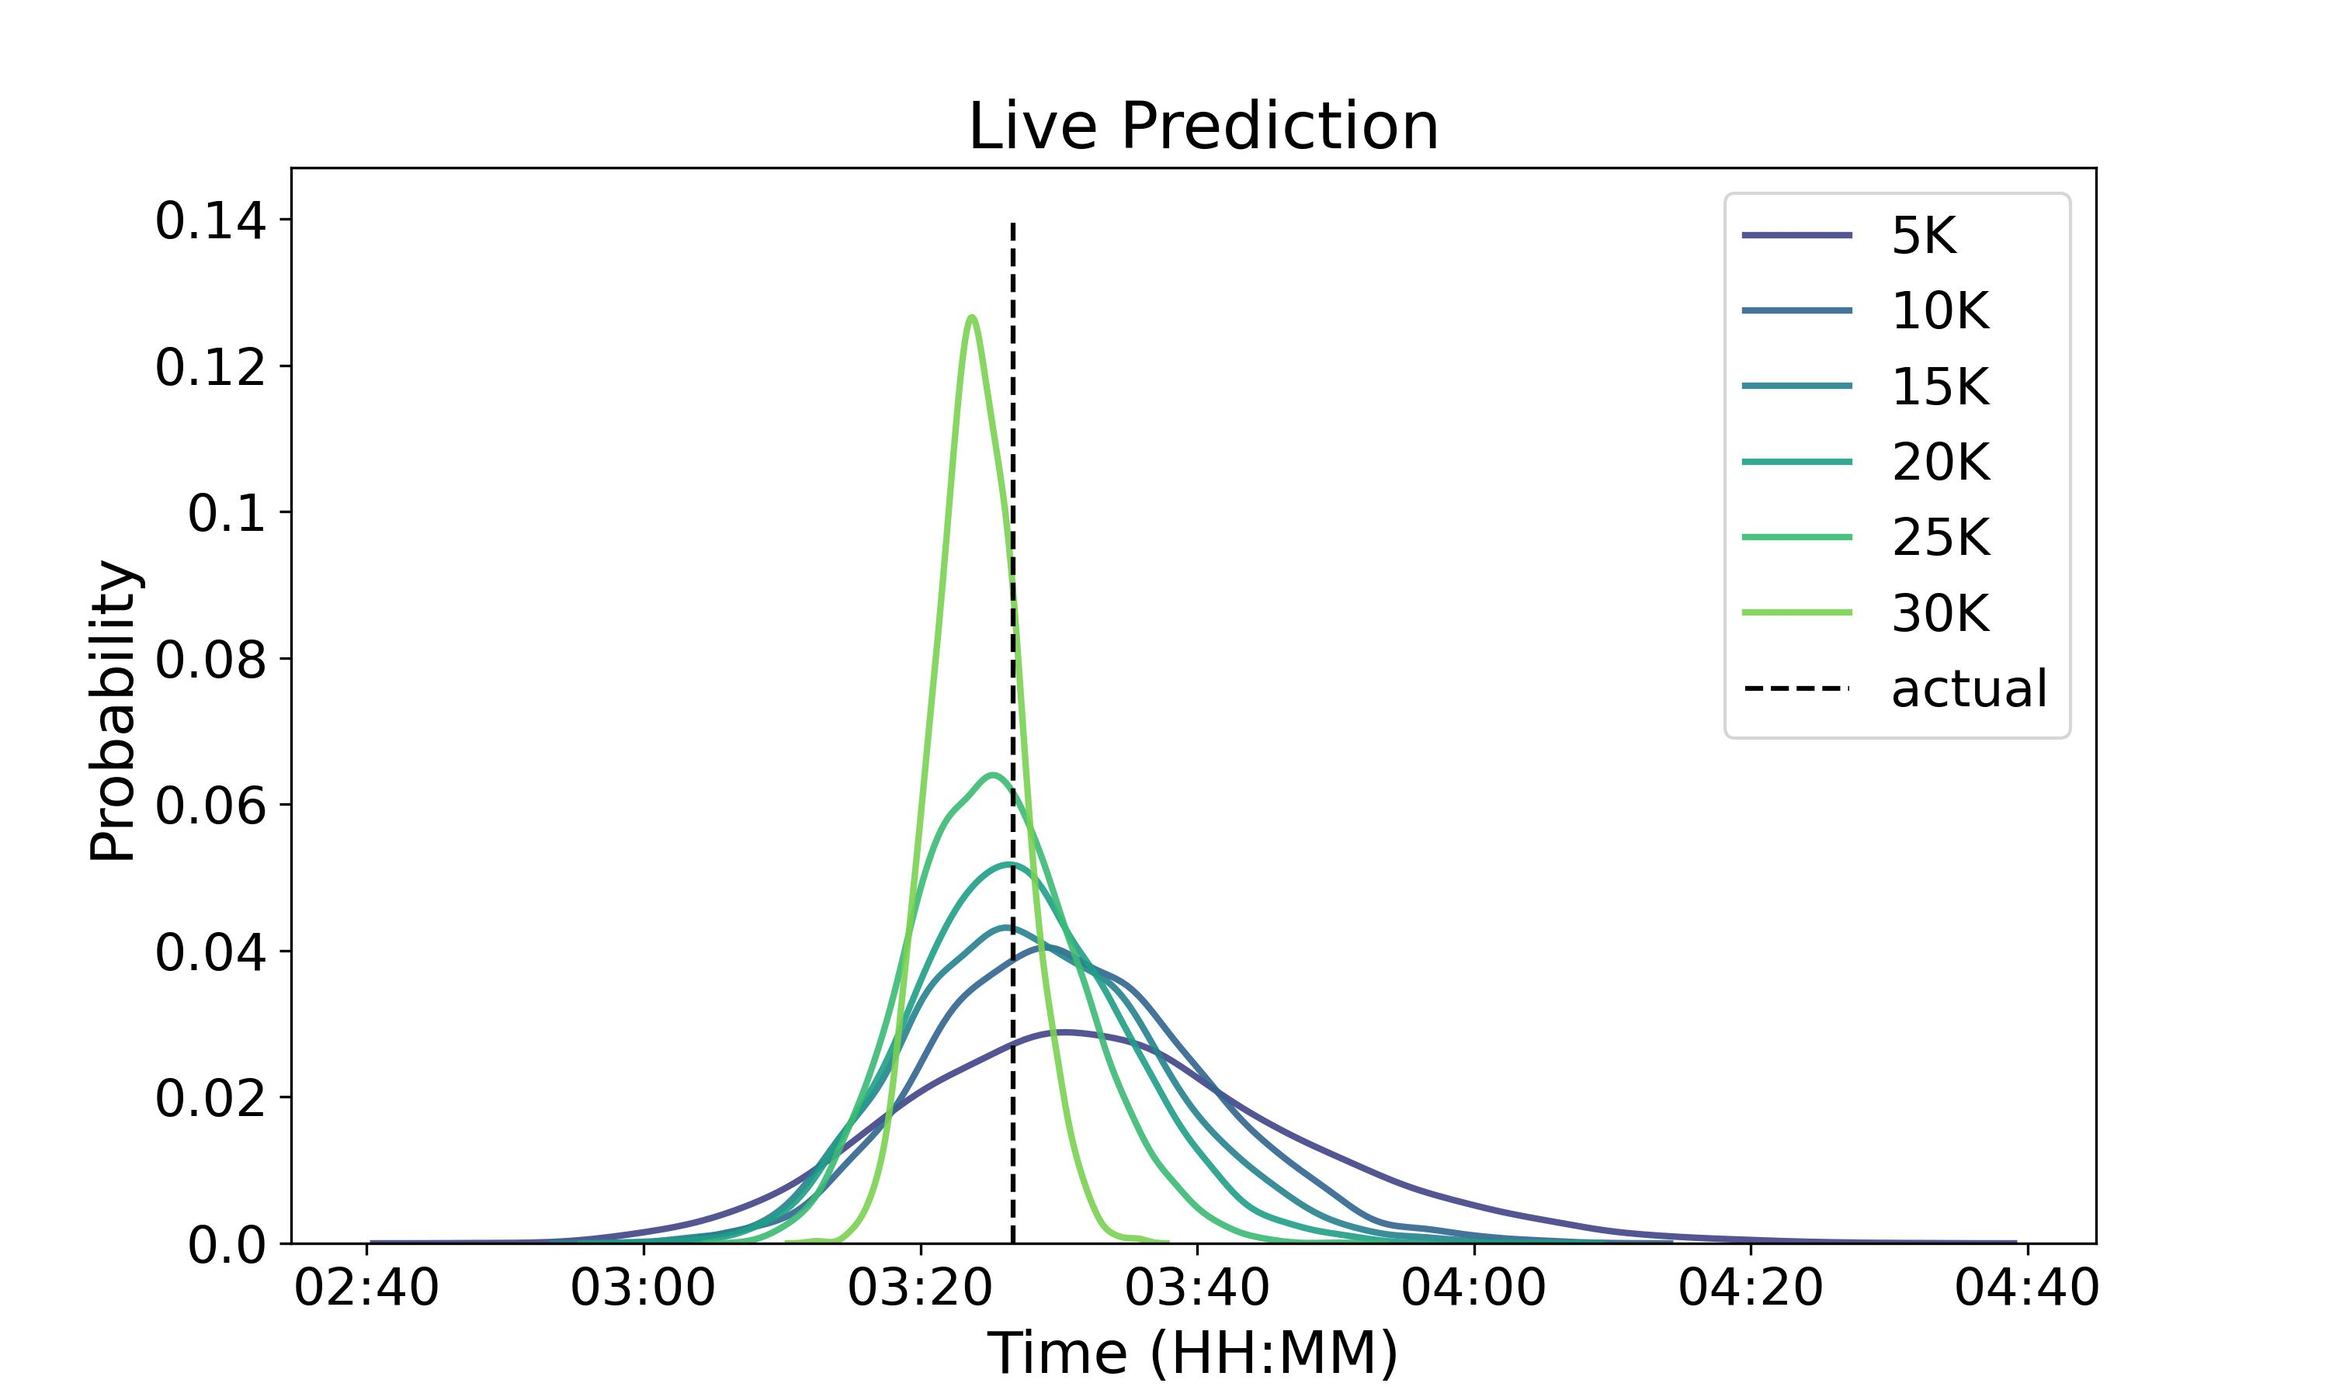
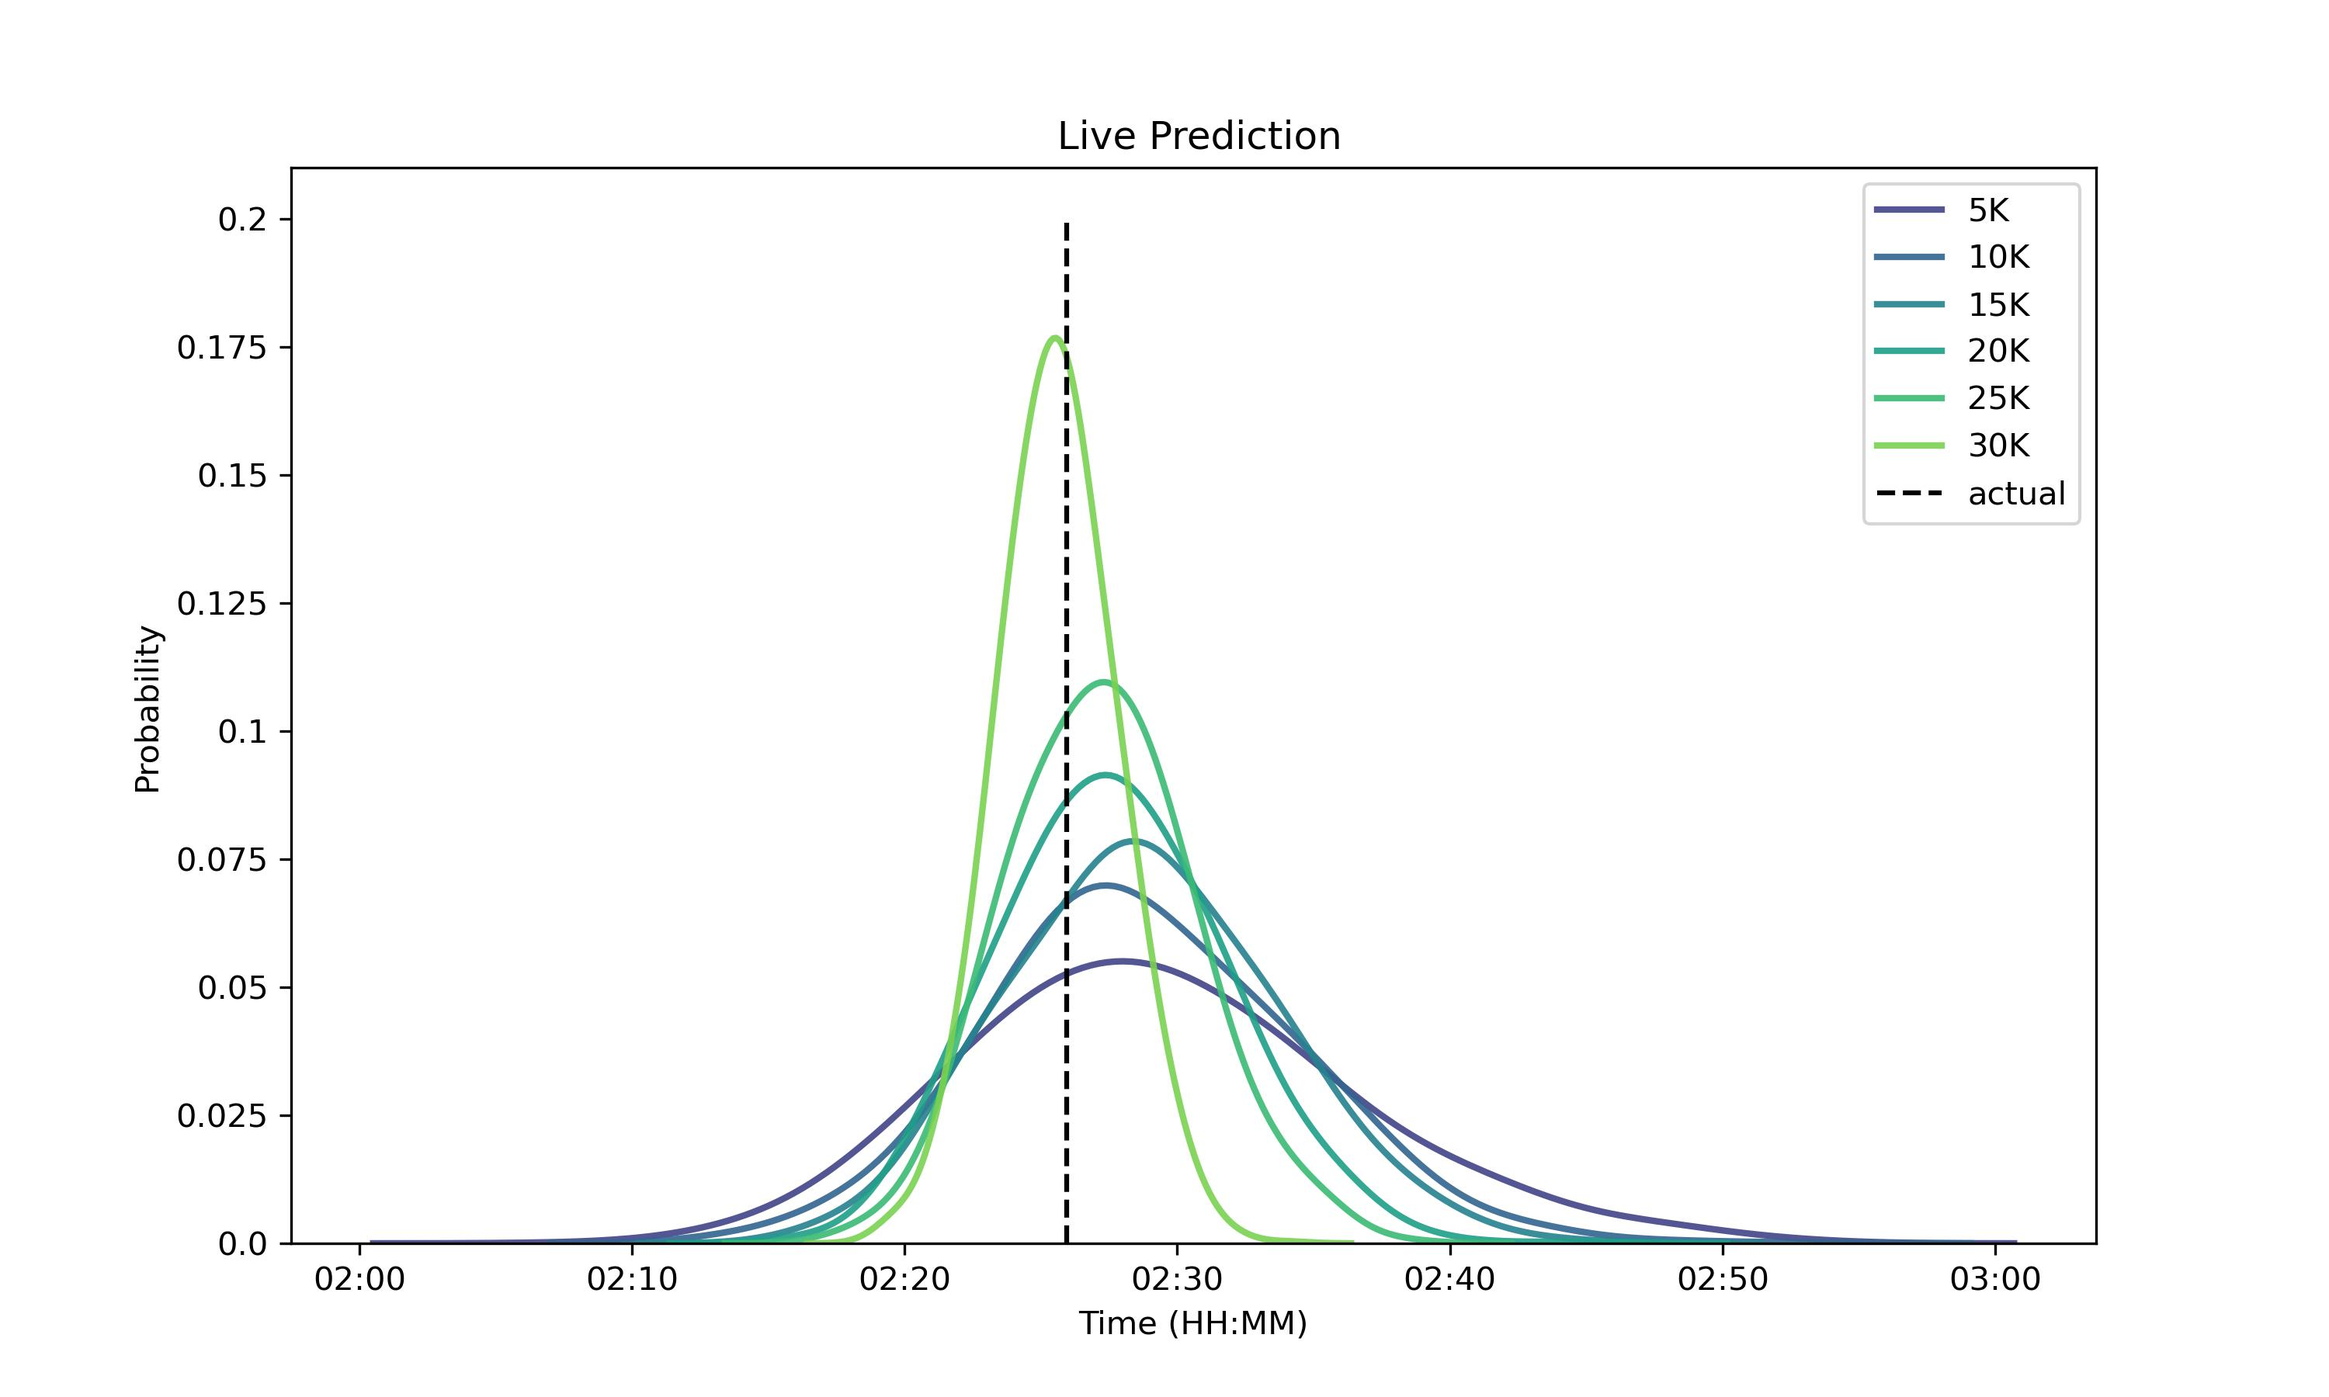
Update app

diff --git a/app.py b/app.py
@@ -12,17 +12,20 @@ nucr = pd.read_csv(nucr_filename)
 names = nucr["Name"]
 marks = ["5K", "10K", "15K", "20K", "25K", "30K", "35K", "40K"]
 race_splits = RaceSplits()
-ui.page_opts(title="Quantifying Uncertainty in Live Marathon Finish Time Predictions", fillable=True)
+
+card_style = "color:white; background:#2A2A2A !important;"
+ui.page_opts(title="Marathon Finish Time Predictor", fillable=True)
 
 with ui.sidebar(id="sidebar", open="open"):
     ui.input_radio_buttons("radio", "Input Type",  {"0": "Total Time", "1": "Last Split"}, inline=True)  
     ui.input_radio_buttons("radio2", "Marathon Race",  {"0": "Boston", "1": "New York", "2": "Chicago"}, inline=True)  
     ui.input_select("select", label="Choose a distance", choices=marks, selected="5K")
-    ui.input_text("runner_split1", value="", label="Enter time here:", placeholder="MM:SS")
+    ui.input_text("runner_split1", value="", label="Enter time here:", placeholder="MM:SS or HH:MM:SS")
     ui.input_action_button("bttn", "Add Time", class_="btn-success")
     ui.input_action_button("reset", "Reset", class_="btn-success")
 
     with ui.card(full_screen=True):
+        ui.card_header("Last Action", style=card_style)
         @render.text
         @reactive.event(input.bttn, input.reset)       
         def textSidebar():
@@ -38,24 +41,12 @@ with ui.sidebar(id="sidebar", open="open"):
 with ui.nav_panel("My Plot"):
     with ui.layout_columns(fill=False):
         with ui.card(full_screen=True):
-            "View your finish time estimates in real time! Sequentially input your race splits (formatted MM:SS or HH:MM:SS) in the text box below, click go, and view your live prediction at that stage of the race. Input your times in 5km increments [5K, 10K, ..., 40K].  NOTE: if the app errors, refresh the page and try again."
-
-    with ui.layout_columns(fill=False):
-        with ui.card(full_screen=True):
-            ui.card_header("Inputted Times")
-            @render.data_frame
-            @reactive.event(input.bttn, input.reset)
-            def tableTimes():
-                df = race_splits.stored_times_table()
-                print('tbl')
-                print(df)
-                return df
+            "View your finish time estimates in real time! Sequentially input your race splits in the text box below, click go, and view your live prediction at that stage of the race. Input your times in 5km increments [5K, 10K, ..., 40K].  NOTE: if the app errors, refresh the page and try again."
 
     with ui.layout_columns(col_widths=[6, 6, 12]):
 
         @reactive.calc
         def getInfoInput():
-            print(race_splits.get_stored_paces())
             if input.runner_split1():
                 race_splits.city = {"0": "bos", "1": "nyc", "2": "chi"}[input.radio2()]
                 fig, table = get_from_info(race_splits, show=marks)
@@ -64,21 +55,21 @@ with ui.nav_panel("My Plot"):
                 return None, None
                                      
         with ui.card(full_screen=True):
-            ui.card_header("Live Prediction: Table")
+            ui.card_header("Live Prediction: Table", style=card_style)
 
             with ui.popover(title="Filter credible intervals", placement="top"):        
                 fa.icon_svg("gear")
-                ui.input_checkbox_group("intervals1", "Credible Intervals", choices=["range_50", "range_80", "range_95"], 
-                                        selected=["range_50", "range_95"], inline=True)
+                ui.input_checkbox_group("intervals1", "Credible Intervals", choices=["50% CI", "80% CI", "95% CI"], 
+                                        selected=["50% CI", "95% CI"], inline=True)
             
             @render.data_frame
             @reactive.event(input.bttn, input.reset)
             def tableInput():
                 info_table = getInfoInput()[1]
-                return info_table[["dist", "median"] + list(input.intervals1())]
+                return info_table[["Split", "Input Time", "Median"] + list(input.intervals1())]
 
         with ui.card(full_screen=True):
-            ui.card_header("Live Prediction: Plot")
+            ui.card_header("Live Prediction: Plot", style=card_style)
 
             @render.plot
             @reactive.event(input.bttn, input.reset)
@@ -87,9 +78,12 @@ with ui.nav_panel("My Plot"):
 
 
 with ui.nav_panel("NUCR Plots"):
-    "View the plots of NUCR runners! The motivation behind this project involves the Northeastern Club Running team, which has dozens of Boston Marathon qualifiers every year. Here are some select NUCR runners that ran in the 2023 Boston Marathon race. The vertical dotted black line in the plot shows their actual finish time."
-    ui.input_selectize("runner_name0", "Select Runner", choices=list(names))
-    ui.input_checkbox_group("splits_list0", "Select Splits", choices=marks, selected=marks, inline=True)
+    with ui.layout_columns(fill=False):
+        with ui.card(full_screen=True):
+            "The Northeastern University Club Running team has multiple Boston Marathon qualifiers every year. View the plots of some NUCR runners that ran the 2023 race. The vertical dotted black line in the plot shows their actual finish time."
+
+    ui.input_selectize("runner_name0", "", choices=list(names))
+    ui.input_checkbox_group("splits_list0", "", choices=marks, selected=marks, inline=True)
 
     with ui.layout_columns(col_widths=[6, 6, 12]):
 
@@ -105,7 +99,7 @@ with ui.nav_panel("NUCR Plots"):
             return fig, table, actual
                                      
         with ui.card(full_screen=True):
-            ui.card_header("Live Prediction: Table")
+            ui.card_header("Live Prediction: Table", style=card_style)
 
             @render.text        
             def textNUCR():     
@@ -114,21 +108,24 @@ with ui.nav_panel("NUCR Plots"):
             
             with ui.popover(title="Filter credible intervals", placement="top"):        
                 fa.icon_svg("gear")
-                ui.input_checkbox_group("intervals0", "Credible Intervals", choices=["range_50", "range_80", "range_95"], 
-                                        selected=["range_50", "range_95"], inline=True)
-            
+                ui.input_checkbox_group("intervals0", "Credible Intervals", choices=["50% CI", "80% CI", "95% CI"], 
+                                        selected=["50% CI", "95% CI"], inline=True)
+
             @render.data_frame
             def tableNUCR():
                 info_table = getInfoNUCR()[1]
-                return info_table[["dist", "median"] + list(input.intervals0())]
+                return info_table[["Split", "Input Time", "Median"] + list(input.intervals0())]
 
         with ui.card(full_screen=True):
-            ui.card_header("Live Prediction: Plot")
+            ui.card_header("Live Prediction: Plot", style=card_style)
 
             @render.plot
             def histNUCR():
                 return getInfoNUCR()[0]
             
 
-with ui.nav_panel("Project Info"):
-    "Quantifying Uncertainty in Marathon Finish Time Predictions: In the middle of a marathon, a runner’s expected finish time is commonly estimated by extrapolating the average pace covered so far, assuming it to be constant for the rest of the race. These predictions have two key issues: the estimates do not consider the in-race context that can determine if a runner is likely to finish faster or slower than expected, and the prediction is a single point estimate with no information about uncertainty. We implement two approaches to address these issues: Bayesian linear regression and quantile regression. Both methods incorporate information from all splits in the race and allow us to quantify uncertainty around the predicted finish times. We utilized 15 years of Boston Marathon data (312,805 runners total) to evaluate and compare both approaches. Finally, we developed an app for runners to visualize their estimated finish distribution in real time."
+with ui.nav_panel("Project Info"):    
+    with ui.layout_columns(fill=False):
+        with ui.card(full_screen=True):
+            ui.card_header("Quantifying Uncertainty in Marathon Finish Time Predictions", style=card_style)
+            "During a marathon, a runner’s expected finish time is commonly estimated by extrapolating the average pace covered so far, assuming it is held constant for the rest of the race. Two problems arise when predicting finish times this way: the estimates do not consider the in-race context that can determine if a runner is likely to finish faster or slower than expected, and the prediction is simply a point estimate with no information about uncertainty. To address these issues, we implement a hierarchical Bayesian linear regression model that incorporates information from all splits in a race and allows quantification of uncertainty around the predicted finish times. Multiple models under this Bayesian approach are compared to the traditional baseline model using data from the Boston Marathon over four years (2021-2024), and we find a marked improvement in predictive accuracy. We also briefly explore the same implementation for the New York and Chicago marathons, and develop an app that allows runners to visualize their estimated finish time distribution in real time."

diff --git a/race_class.py b/race_class.py
@@ -4,10 +4,11 @@ import pandas as pd
 import numpy as np
 import seaborn as sns
 import matplotlib.pyplot as plt
-from utils import str_to_int_time, int_to_str_time, time_to_pace, conv1, get_predictions
+from utils import str_to_int_time, int_to_str_time, time_to_pace, conv1, last_map, get_predictions
 
+np.random.seed(2024)
 marks = ["5K", "10K", "15K", "20K", "25K", "30K", "35K", "40K"]
-stan_dict = {loc: f"stan_results/model2/params_{loc}.csv" for loc in ["bos", "nyc", "chi"]}
+stan_path = "stan_results/params_all3.csv"
 
 class RaceSplits():
 
@@ -25,6 +26,11 @@ class RaceSplits():
     def add_pace(self, dist: str, time: str, split=False):
         assert dist in marks
         num_time = str_to_int_time(time)
+        if (split) and (dist != "5K"):
+            assert self.last_dist[dist] in self.stored_times.keys(), "error here"
+            last_time = self.stored_times[self.last_dist[dist]]
+            num_time += last_time
+                
         self.stored_times[dist] = num_time
         self.load_paces()
 
@@ -57,17 +63,15 @@ class RaceSplits():
         info = info[info["dist"].isin(show)]
         info['alpha'] = 1
         info['lvl'] = (info['dist'].str[:-1].astype(int) / 5).astype(int)
-        feats_lis = ["alpha", "total_pace", "curr_pace"]
-        preds = (42195 / 60) / get_predictions(info, stan_dict[self.city], feats_lis=feats_lis, full=True)
+        feats_lis = ["alpha", "total_pace"]
+        info['race'] = self.city
+        info['Race'] = self.city
+        info = pd.get_dummies(info, columns=["race"], dtype=int)
+        preds = (42195 / 60) / get_predictions(info, stan_path, feats_lis=feats_lis, full=True, curr_pace=True)
         return preds
     
     def stored_dists(self):
         return list(self.stored_times.keys())
-    
-    def stored_times_table(self):
-        mlis = ["5K", "10K", "15K", "20K", "25K", "30K", "35K", "40K"]
-        df = pd.DataFrame([(k, int_to_str_time(60 * v)) for k, v in self.stored_times.items()], columns=["dist", "time"])
-        return df
     
     def reset_race(self):
         # self.__init__()
@@ -79,7 +83,7 @@ class RaceSplits():
 
 def table_info(info: pd.DataFrame, show = ["5K", "10K"]):
     percentiles = np.percentile(info, [2.5, 10, 25, 50, 75, 90, 97.5], axis=1)
-    percentile_names = ["lower95", "lower80", "lower50", "mean", "upper50", "upper80", "upper95"]
+    percentile_names = ["lower95", "lower80", "lower50", "median", "upper50", "upper80", "upper95"]
     table = pd.DataFrame(percentiles, index=percentile_names, columns=show)
     for col in table:
         table[col] = table[col].apply(lambda x: int_to_str_time(60 * x, no_secs=True))
@@ -105,9 +109,14 @@ def get_from_info(
     colors = plt.get_cmap()(np.linspace(0.2, 0.8, len(shows)))
     for i, dist in enumerate(shows):
         info = percentile_info[dist]
-        info_strings = (dist, f'{info["mean"]}', f'{info["lower50"]}-{info["upper50"]}', f'{info["lower80"]}-{info["upper80"]}', f'{info["lower95"]}-{info["upper95"]}')
+        # print('info', race.stored_times[dist], int_to_str_time(race.stored_times[dist]))
+        input_time = int_to_str_time(race.stored_times[dist])
+        range50 = f'{info["lower50"]}-{info["upper50"]}'
+        range80 = f'{info["lower80"]}-{info["upper80"]}'
+        range95 = f'{info["lower95"]}-{info["upper95"]}'
+        info_strings = (dist, input_time, f'{info["median"]}', range50, range80, range95)
         table.append(info_strings)
-        sns.kdeplot(p_array[i], color=colors[i], label=dist, linewidth=2, alpha=0.9)
+        sns.kdeplot(p_array[i], color=colors[i], label=dist, linewidth=2, alpha=0.9, bw_adjust=1.5)
 
 
     x_labels = plt.xticks()[0]
@@ -119,12 +128,14 @@ def get_from_info(
     plt.ylabel("Probability")#, fontsize=18)
     plt.title(f"{name} Live Prediction")#, fontsize=20)
     if actual:
-        plt.vlines(actual, 0, plt.yticks()[0].max(), linestyles="dashed", color="black", label="actual")
+        plt.vlines(actual / 60, 0, plt.yticks()[0].max(), linestyles="dashed", color="black", label="actual")
 
     plt.legend()#fontsize=16)
     plt.savefig("analysis/plots/plot_live.jpg", dpi=300)
     print('done')
-    return fig, pd.DataFrame(table, columns=["dist", "median", "range_50", "range_80", "range_95"])
+
+    table_df = pd.DataFrame(table, columns=["Split", "Input Time", "Median", "50% CI", "80% CI", "95% CI"])
+    return fig, table_df
 
 
 def get_race_for_person(num, train_data,) -> RaceSplits:
@@ -138,7 +149,7 @@ def get_race_for_person(num, train_data,) -> RaceSplits:
         person_race.add_pace(m, t)
 
     person_race.load_paces()
-    actual = person["Finish Net"] / 60
+    actual = person["Finish Net"]
     return person_race, actual
 
 
@@ -165,7 +176,7 @@ if __name__ == "__main__":
     print('curr_dist', rs.stored_dists())
     rs.add_pace("5K", "15:45")
 
-#     # print('paces', rs.get_paces())
+    # print('paces', rs.get_paces())
     print('curr_dist', rs.stored_dists())
     rs.add_pace("10K", "32:12")
     rs.add_pace("15K", "49:57")
@@ -175,7 +186,7 @@ if __name__ == "__main__":
     print('s', rs.get_stored_paces())
 
     print(rs.stored_times)
-    print(rs.stored_times_table())
+    # print(rs.stored_times_table())
 
     # nucr_filename = "processed_data/nucr_runners.csv"
     # nucr = pd.read_csv(nucr_filename)
